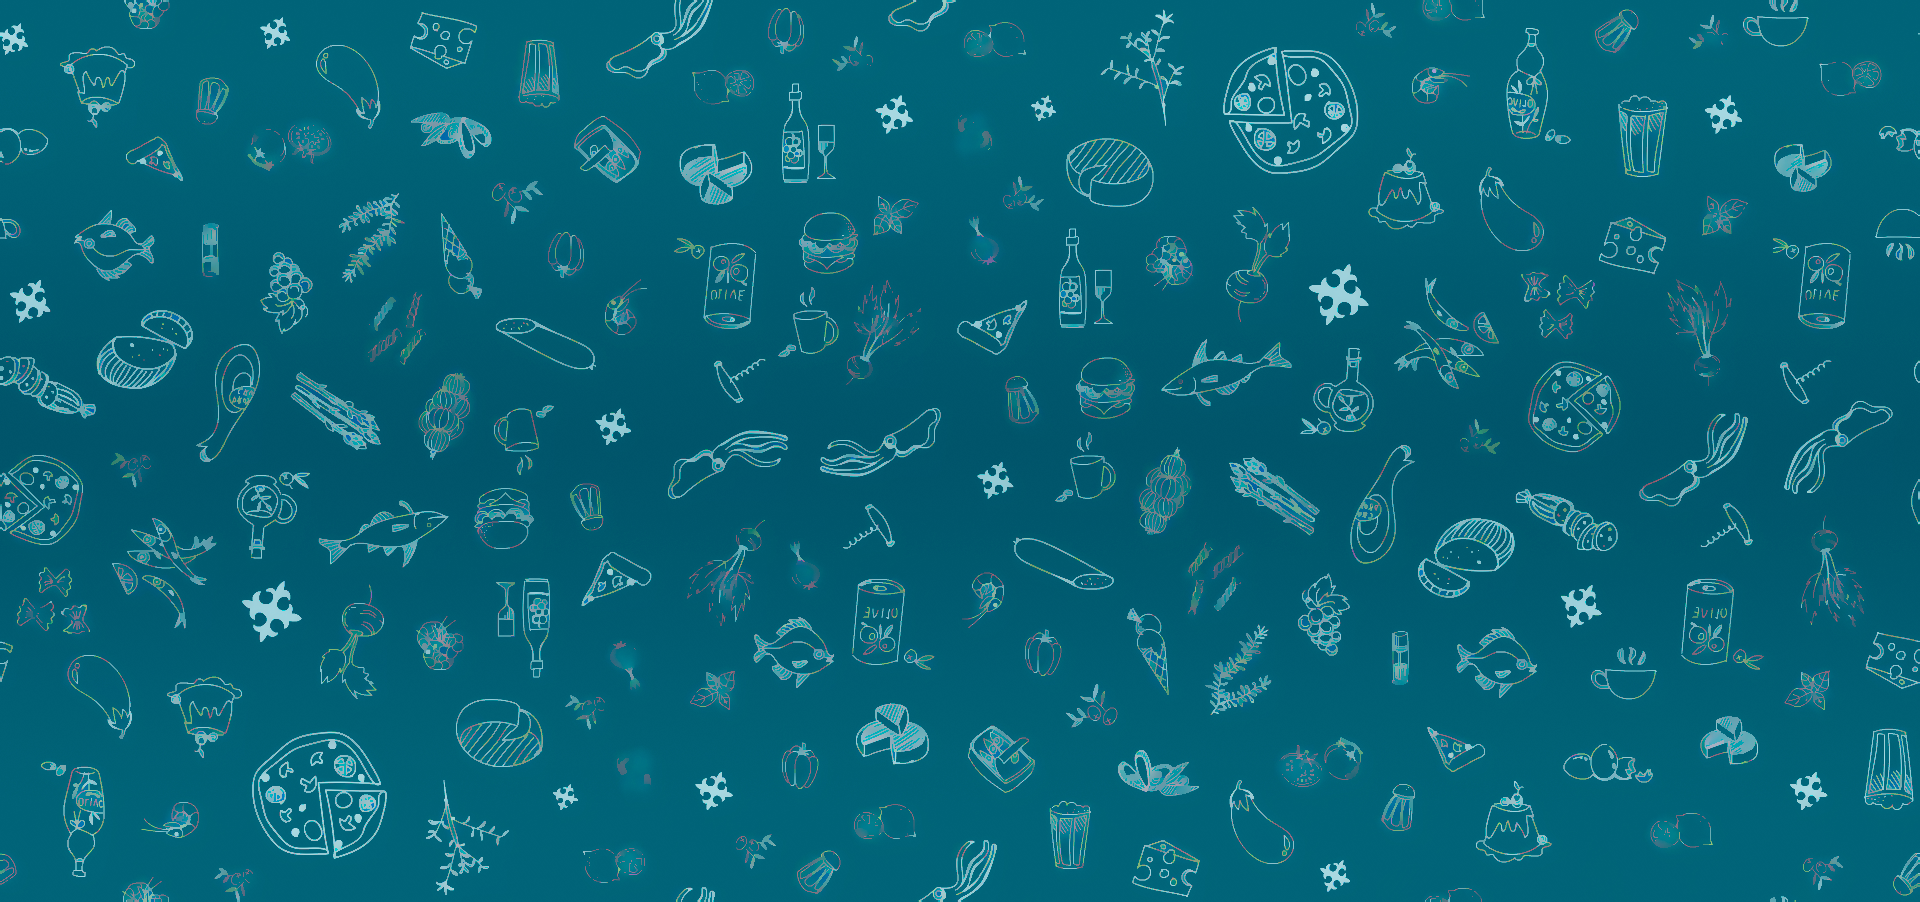
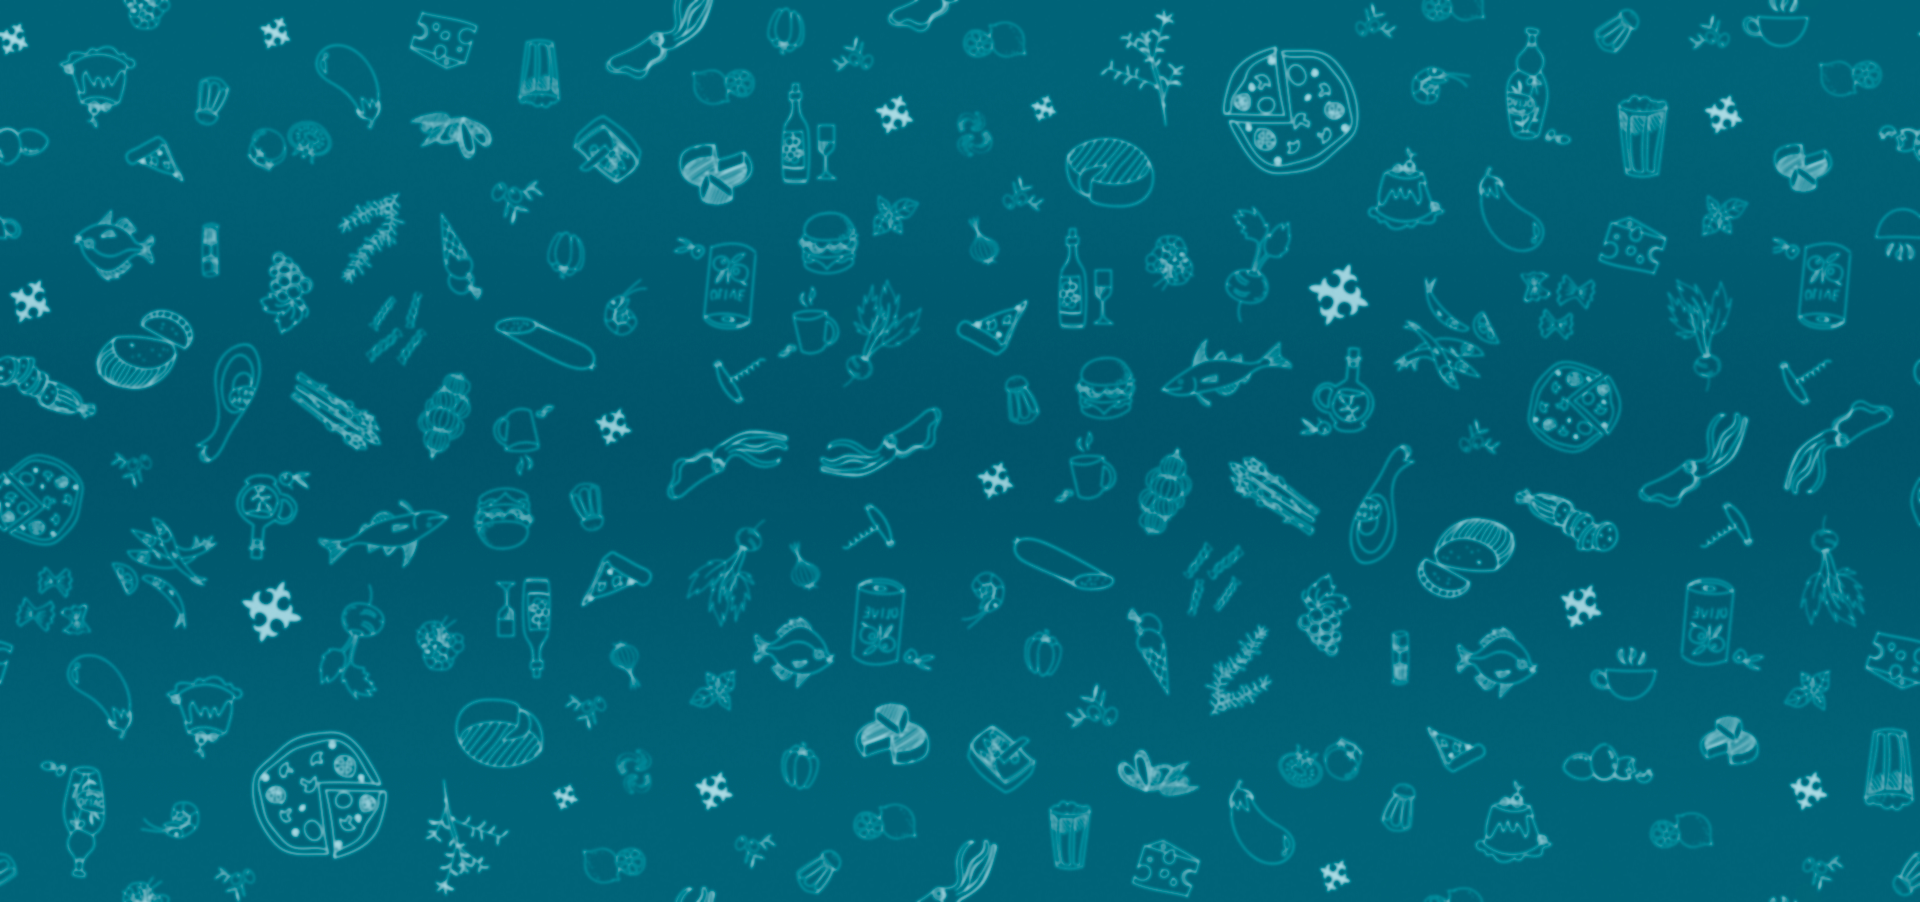
test new snow bacground

diff --git a/src/layouts/emptyLayout/emptyLayout.scss b/src/layouts/emptyLayout/emptyLayout.scss
@@ -1,0 +1,169 @@
+html,
+body {
+  margin: 0;
+  height: 100%;
+  -webkit-background-size: cover;
+  -moz-background-size: cover;
+  -o-background-size: cover;
+  background-size: cover;
+  z-index: 999 !important;
+}
+
+.v-text-field fieldset {
+  border: none !important;
+}
+* {
+  margin: 0;
+  padding: 0;
+}
+
+html,
+body {
+  width: 100%;
+  height: 100%;
+  overflow: hidden;
+}
+
+body {
+  background-color: #021027;
+}
+
+.container {
+  width: 100%;
+  height: 100%;
+  overflow: hidden;
+  position: relative;
+}
+
+.background {
+  display: block;
+  position: absolute;
+  top: 0;
+  left: 0;
+  object-fit: cover;
+  width: 100%;
+  height: 100%;
+
+  mask-image: radial-gradient(
+    white 0%,
+    white 30%,
+    transparent 80%,
+    transparent
+  );
+}
+
+.circle-container {
+  $particleNum: 200;
+  $particleColor: hsl(180, 100%, 80%);
+
+  position: absolute;
+  transform: translateY(-10vh);
+  animation-iteration-count: infinite;
+  animation-timing-function: linear;
+
+  .circle {
+    width: 100%;
+    height: 100%;
+    border-radius: 50%;
+    mix-blend-mode: screen;
+    background-image: radial-gradient(
+      hsl(180, 100%, 80%),
+      hsl(180, 100%, 80%) 10%,
+      hsla(180, 100%, 80%, 0) 56%
+    );
+
+    animation: fadein-frames 200ms infinite, scale-frames 2s infinite;
+
+    @keyframes fade-frames {
+      0% {
+        opacity: 1;
+      }
+
+      50% {
+        opacity: 0.7;
+      }
+
+      100% {
+        opacity: 1;
+      }
+    }
+
+    @keyframes scale-frames {
+      0% {
+        transform: scale3d(0.4, 0.4, 1);
+      }
+
+      50% {
+        transform: scale3d(2.2, 2.2, 1);
+      }
+
+      100% {
+        transform: scale3d(0.4, 0.4, 1);
+      }
+    }
+  }
+
+  $particleBaseSize: 8;
+
+  @for $i from 1 through $particleNum {
+    &:nth-child(#{$i}) {
+      $circleSize: random($particleBaseSize);
+      width: $circleSize + px;
+      height: $circleSize + px;
+
+      $startPositionY: random(10) + 100;
+      $framesName: 'move-frames-' + $i;
+      $moveDuration: 28000 + random(9000) + ms;
+
+      animation-name: #{$framesName};
+      animation-duration: $moveDuration;
+      animation-delay: random(37000) + ms;
+
+      @keyframes #{$framesName} {
+        from {
+          transform: translate3d(
+            #{random(100) + vw},
+            #{$startPositionY + vh},
+            0
+          );
+        }
+
+        to {
+          transform: translate3d(
+            #{random(100) + vw},
+            #{- $startPositionY - random(30) + vh},
+            0
+          );
+        }
+      }
+
+      .circle {
+        animation-delay: random(4000) + ms;
+      }
+    }
+  }
+}
+
+.message {
+  position: absolute;
+  right: 20px;
+  bottom: 10px;
+  color: white;
+  font-family: 'Josefin Slab', serif;
+  line-height: 27px;
+  font-size: 18px;
+  text-align: right;
+  pointer-events: none;
+  animation: message-frames 1.5s ease 5s forwards;
+  opacity: 0;
+
+  @keyframes message-frames {
+    from {
+      opacity: 0;
+    }
+
+    to {
+      opacity: 1;
+    }
+  }
+}

diff --git a/src/layouts/emptyLayout/emptyLayout.html b/src/layouts/emptyLayout/emptyLayout.html
@@ -1,0 +1,24 @@
+<div>
+  <v-app class="transparent_bg">
+    <div class="circle-container" v-for="index in 100" :key="index">
+      <div class="circle"></div>
+    </div>
+
+    <router-view></router-view>
+    <v-snackbar
+      top
+      v-model="snackbar.show"
+      :color="snackbar.color"
+      :timeout="snackbar.duration"
+      right
+    >
+      {{ snackbar.text }}
+
+      <template v-slot:action="{ attrs }">
+        <v-btn dark text v-bind="attrs" @click="releaseSnackbar()">
+          Ok
+        </v-btn>
+      </template>
+    </v-snackbar>
+  </v-app>
+</div>

diff --git a/src/layouts/emptyLayout/emptyLayout.ts b/src/layouts/emptyLayout/emptyLayout.ts
@@ -1,0 +1,14 @@
+import router from '@/router';
+import { Snackbar } from '@/shared/model/snackbar';
+import Vue from 'vue';
+import Component from 'vue-class-component';
+import { Action, State } from 'vuex-class';
+@Component
+export default class EmptyLayout extends Vue {
+  @State('snackbar') public stateSnackbar!: Snackbar;
+  @Action('releaseSnackbar') private releaseSnackbar: any;
+  // computed
+  get snackbar() {
+    return this.stateSnackbar;
+  }
+}

diff --git a/src/components/app/app.ts b/src/components/app/app.ts
@@ -1,6 +1,6 @@
 import Vue from 'vue';
 import Component from 'vue-class-component';
-import EmptyLayout from '@/layouts/EmptyLayout.vue';
+import EmptyLayout from '@/layouts/emptyLayout/emptyLayout.vue';
 import MainLayout from '@/layouts/MainLayout.vue';
 import AdminLayout from '@/layouts/AdminLayout.vue';
 import PublicLayout from '@/layouts/publicLayout/publicLayout.vue';

diff --git a/src/layouts/emptyLayout/emptyLayout.vue b/src/layouts/emptyLayout/emptyLayout.vue
@@ -1,0 +1,5 @@
+<template src="./emptyLayout.html"></template>
+
+<style lang="scss" src="./emptyLayout.scss"></style>
+
+<script lang="ts" src="./emptyLayout.ts"></script>
